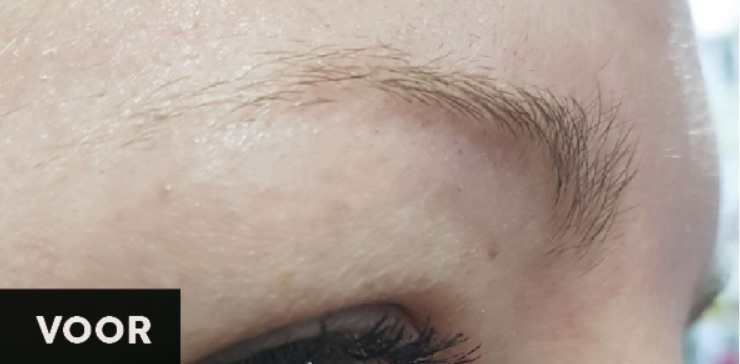
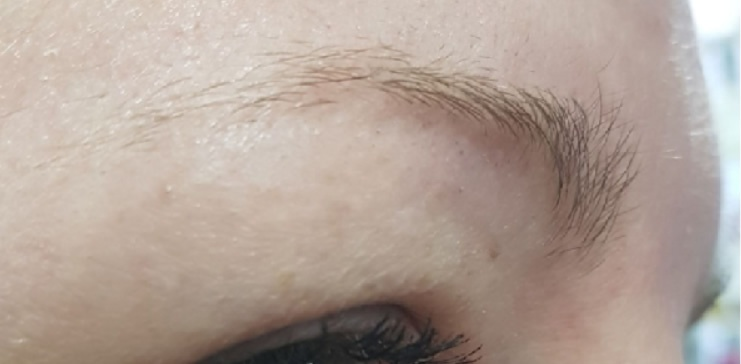
Henna: nieuwe voor/na-foto zonder ingebakken labels
Aangeleverde foto gesplitst in voor en na (origineel bewaard in
archief/afbeeldingen/henna-voor-na-zonder-label.jpg).

Claude-Session: https://claude.ai/code/session_018kJrShW9P35ACz4nMEvUsP

diff --git a/public/henna-wenkbrauwen/index.html b/public/henna-wenkbrauwen/index.html
@@ -238,7 +238,7 @@
       <div class="btns"><a class="btn btn-primary" href="tel:+31541538153"><svg viewBox="0 0 24 24" fill="none" stroke="currentColor" stroke-width="1.4" stroke-linecap="round" stroke-linejoin="round" aria-hidden="true"><path d="M5 3.5h3.2l1.6 4.2-2 1.4a11 11 0 0 0 7.1 7.1l1.4-2 4.2 1.6V19a1.6 1.6 0 0 1-1.7 1.6A16.6 16.6 0 0 1 3.4 5.2 1.6 1.6 0 0 1 5 3.5Z"/></svg> Afspraak maken</a></div>
     </div>
   </div>
-  <div class="wrap"><div class="voorna-grid reveal"><figure><img decoding="async" width="740" height="364" src="/img/henna-voor-740.webp" srcset="/img/henna-voor-480.webp 480w, /img/henna-voor-740.webp 740w" sizes="(max-width: 860px) 100vw, 50vw" alt="Wenkbrauw vóór de henna wenkbrauwen behandeling" loading="lazy"><figcaption>Voor</figcaption></figure><figure><img decoding="async" width="743" height="364" src="/img/henna-na-743.webp" srcset="/img/henna-na-480.webp 480w, /img/henna-na-743.webp 743w" sizes="(max-width: 860px) 100vw, 50vw" alt="Wenkbrauw ná de henna wenkbrauwen behandeling: voller en strakker" loading="lazy"><figcaption>Na</figcaption></figure></div></div>
+  <div class="wrap"><div class="voorna-grid reveal"><figure><img decoding="async" width="741" height="364" src="/img/henna-voor-741.webp" srcset="/img/henna-voor-480.webp 480w, /img/henna-voor-741.webp 741w" sizes="(max-width: 860px) 100vw, 50vw" alt="Wenkbrauw vóór de henna wenkbrauwen behandeling" loading="lazy"><figcaption>Voor</figcaption></figure><figure><img decoding="async" width="742" height="364" src="/img/henna-na-742.webp" srcset="/img/henna-na-480.webp 480w, /img/henna-na-742.webp 742w" sizes="(max-width: 860px) 100vw, 50vw" alt="Wenkbrauw ná de henna wenkbrauwen behandeling: voller en strakker" loading="lazy"><figcaption>Na</figcaption></figure></div></div>
 </section>
 <section class="section related">
   <div class="wrap">

diff --git a/build.py b/build.py
@@ -242,7 +242,6 @@ IMAGES = {
     "header-kadobon": "kadobon-salon-wendy.jpg",
     "header-henna": "henna-eyebrow.jpg",
     "header-nagels": "nail-art.jpg",
-    "henna-voor-na": "henna-wenkbrauwen-voor-na.jpg",
     "henna-voor": "henna-voor.jpg",
     "henna-na": "henna-na.jpg",
     "aroma-olie": "essential-oil-aroma.jpg",
@@ -266,7 +265,6 @@ ALT = {
     "header-kadobon": "Feestelijk verpakte kadobon van Wendy's Schoonheidssalon",
     "header-henna": "Volle, strakke wenkbrauwen met henna",
     "header-nagels": "Mooie nagels met gellak",
-    "henna-voor-na": "Wenkbrauwen voor en na de henna wenkbrauwen behandeling",
     "henna-voor": "Wenkbrauw vóór de henna wenkbrauwen behandeling",
     "henna-na": "Wenkbrauw ná de henna wenkbrauwen behandeling: voller en strakker",
     "aroma-olie": "Aromatherapie met pure etherische olie en bloemen",
